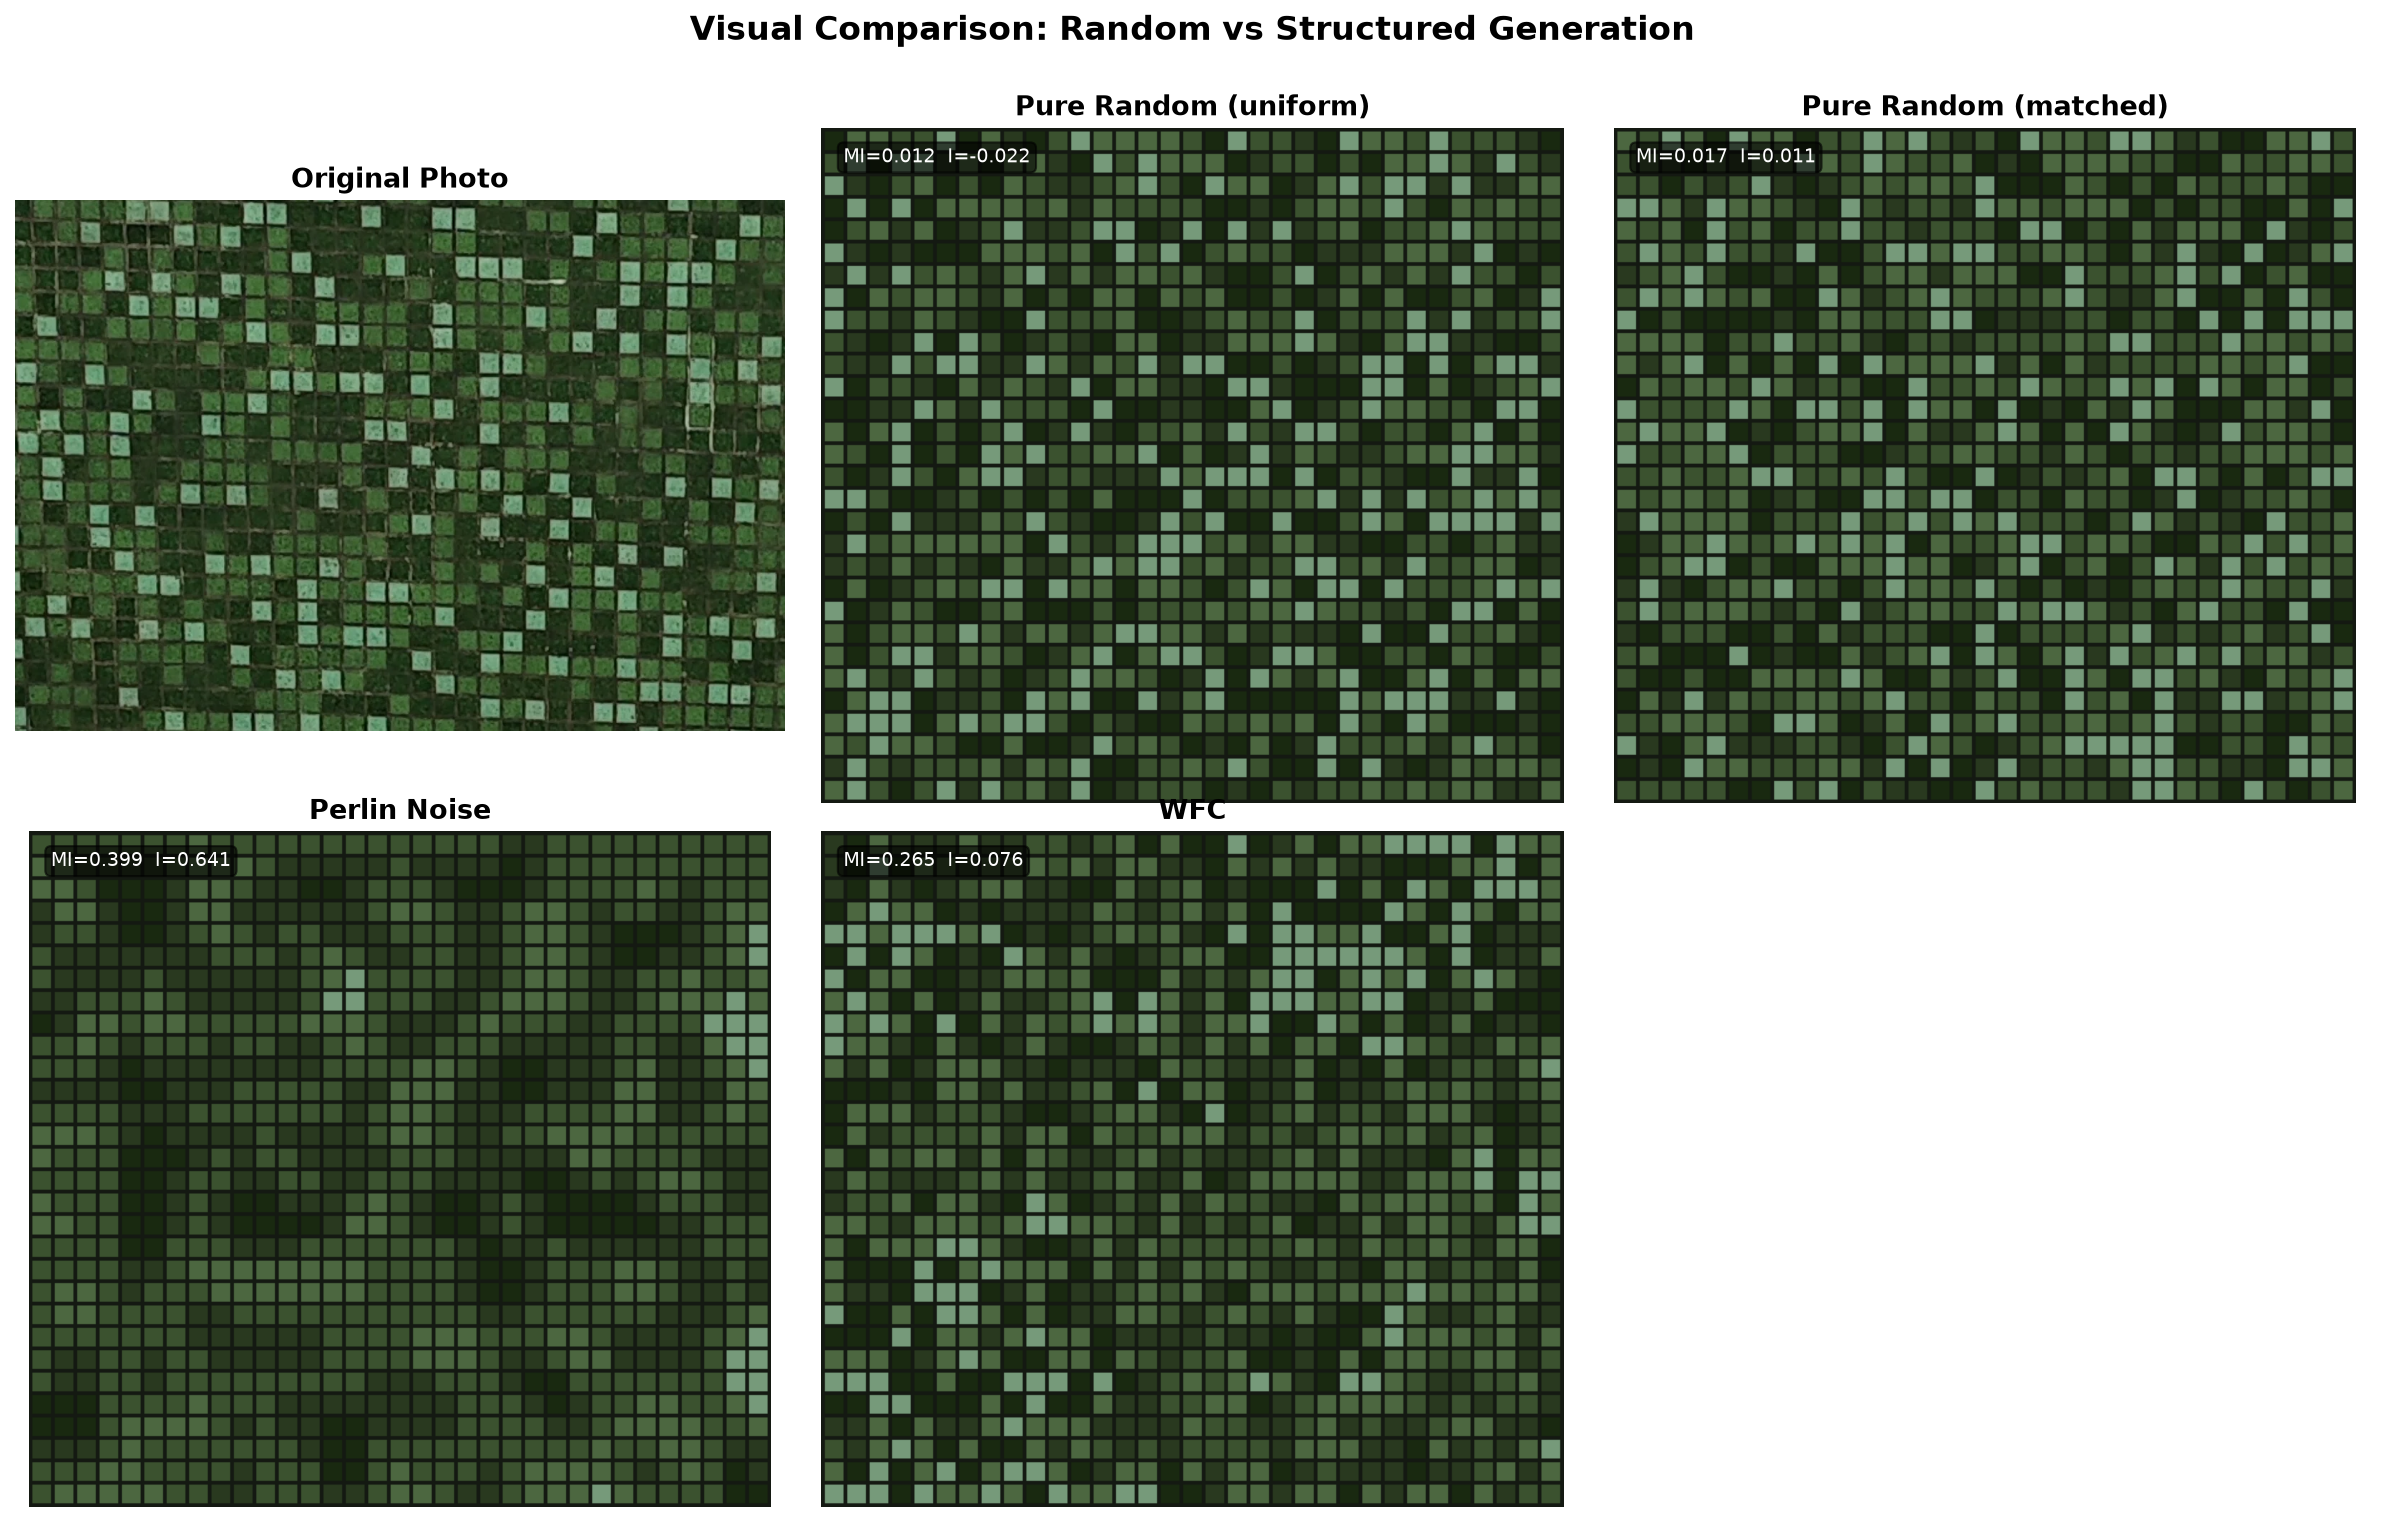
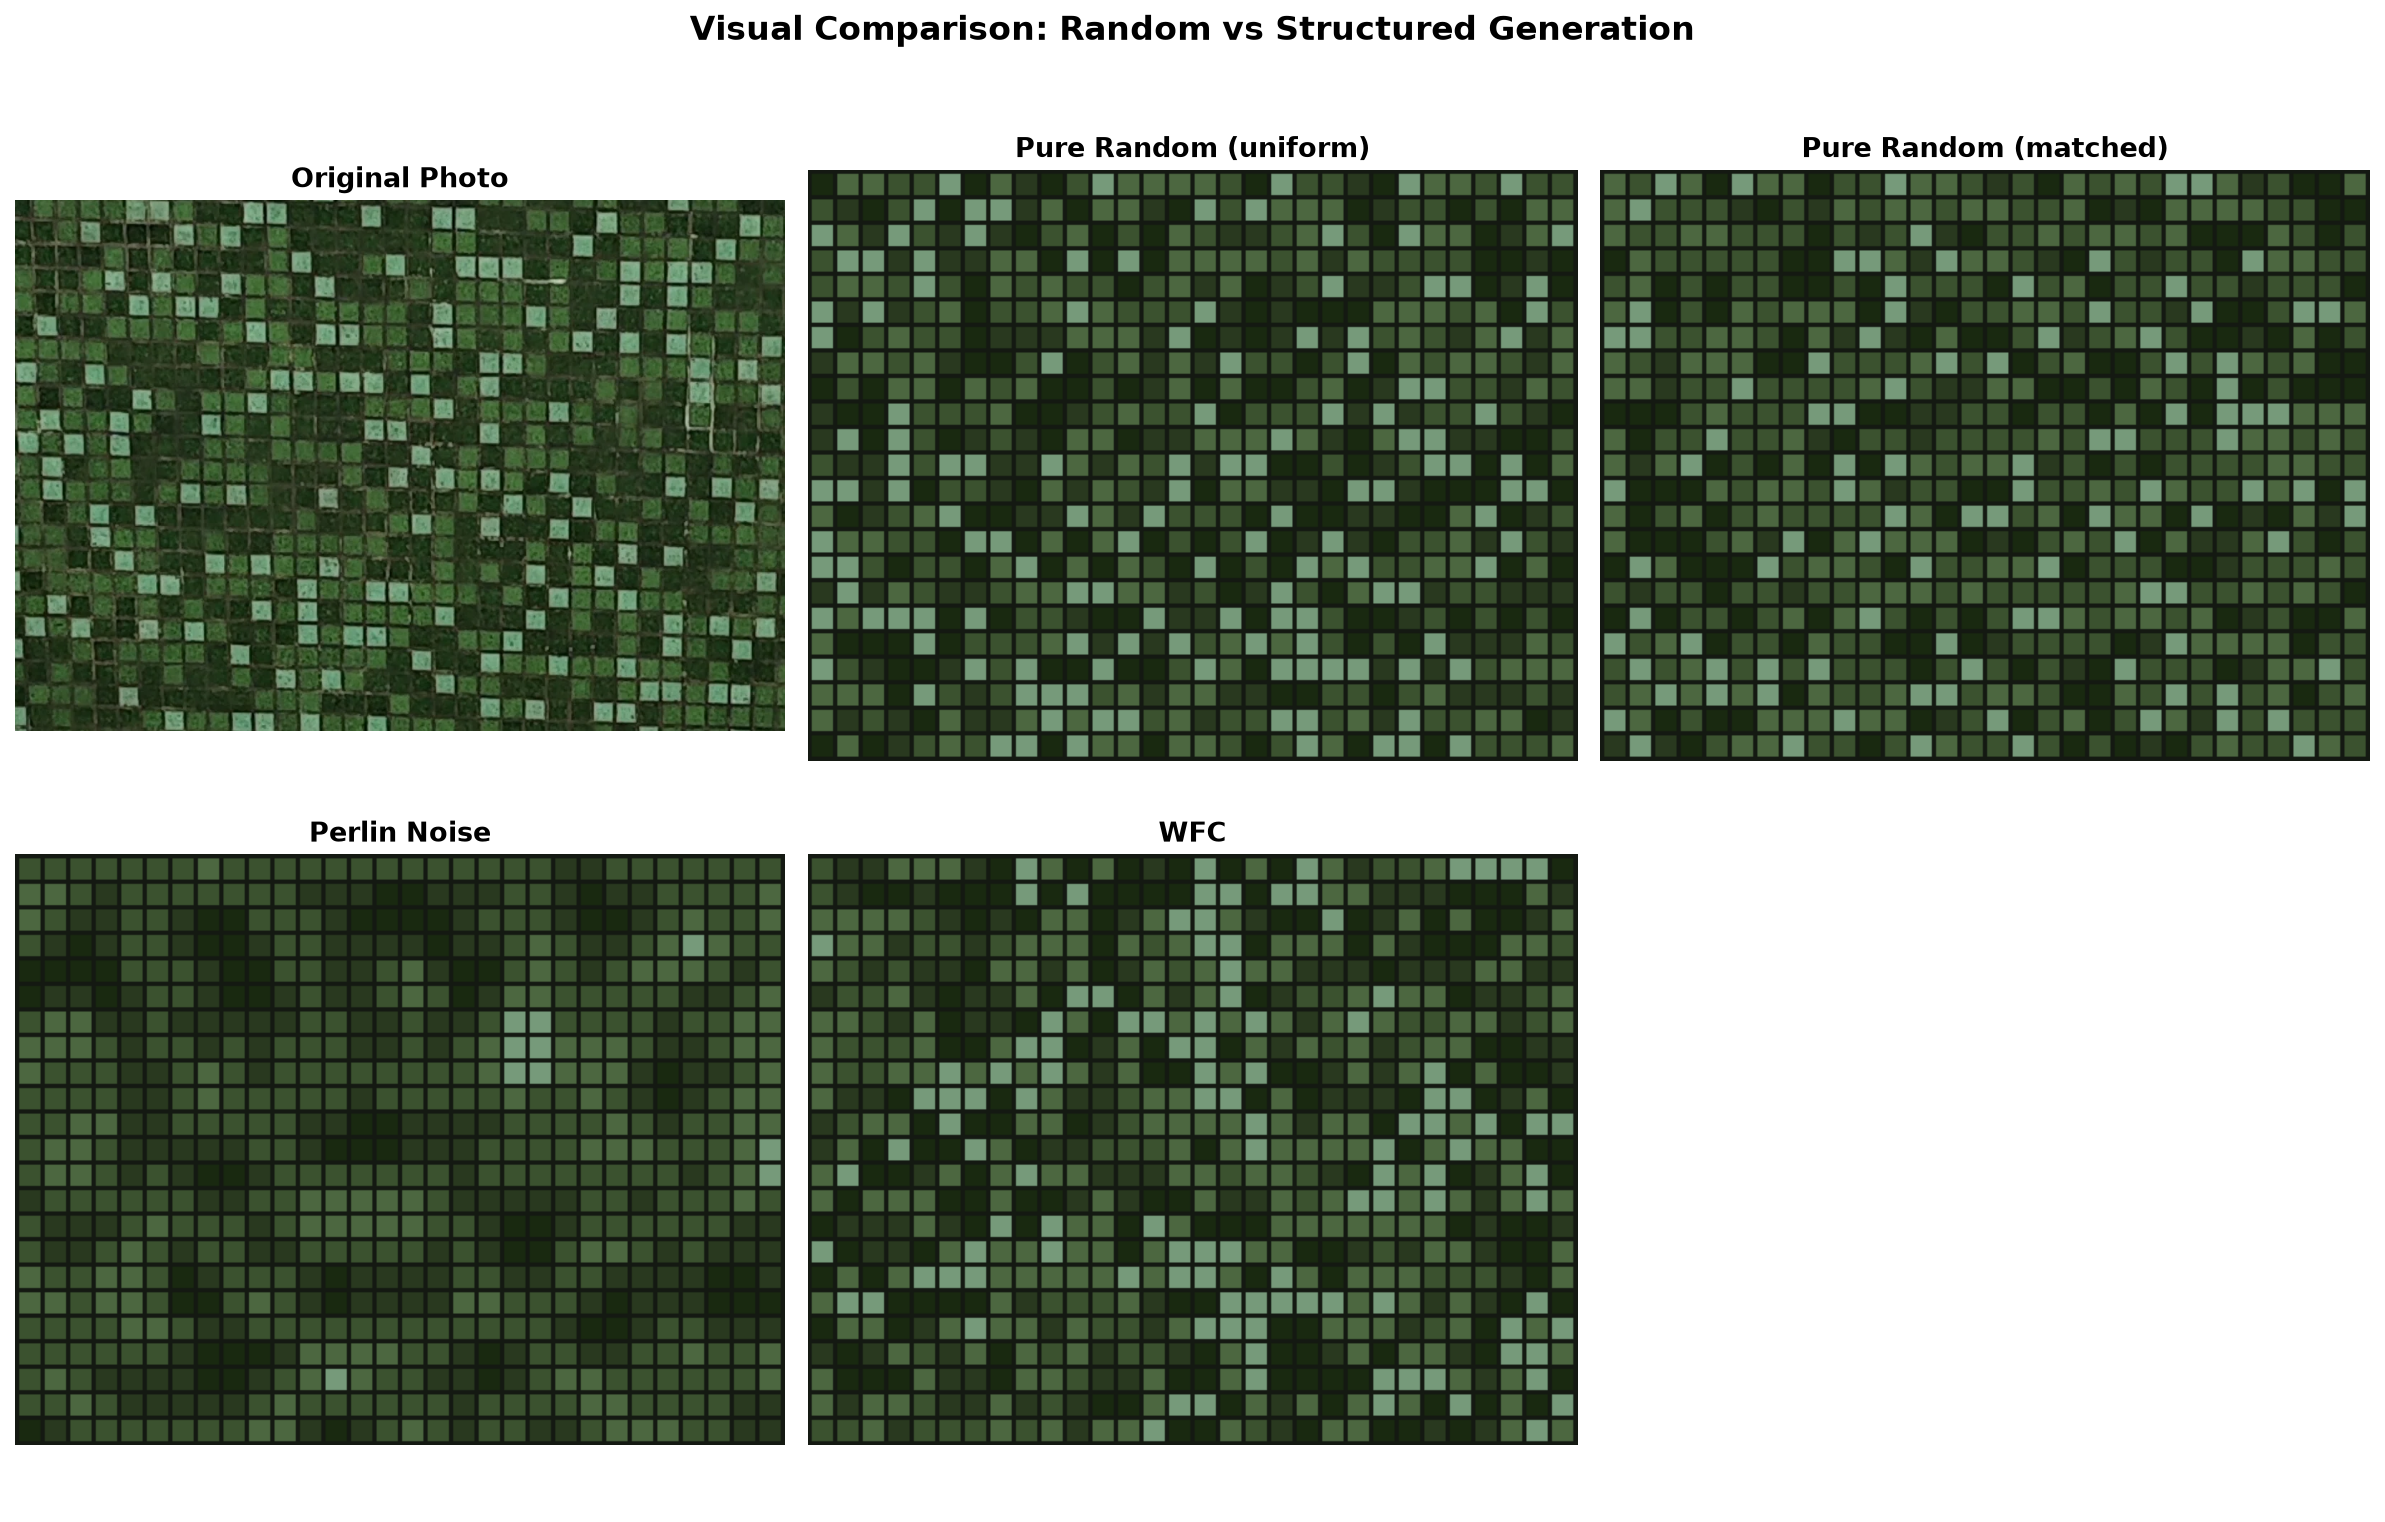
Tidy images and refresh the mosaic figure
- Delete three unreferenced images and the unused bar chart
- Convert the 2023/0726 cover to JPEG and point its review at it
- Regenerate the mosaic comparison figure on the real 23x30 tiles
- Ship the matching script bundle so the download reproduces it

diff --git a/content/posts/2023/230726-书评-如何成为超级大反派.md b/content/posts/2023/230726-书评-如何成为超级大反派.md
@@ -7,7 +7,7 @@ slug: book-review-how-to-become-super-villain
 ---
 
 <div class="p-3 text-center">
-  <img class="img-fluid book-cover" src="/uploads/2023/0726/book-cover.png" alt="图书封面">
+  <img class="img-fluid book-cover" src="/uploads/2023/0726/book-cover.jpg" alt="图书封面">
 </div>
 
 《征服世界完全手册》瑞安·诺思 著，王乔琦 译，中信出版集团，2023年6月出版。
